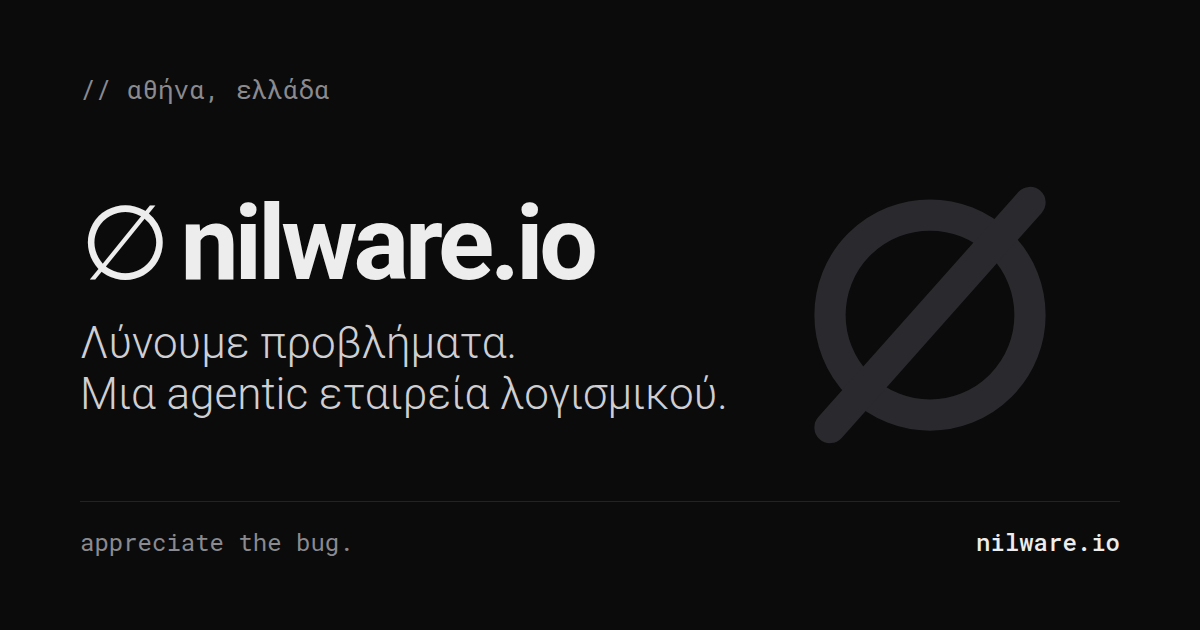
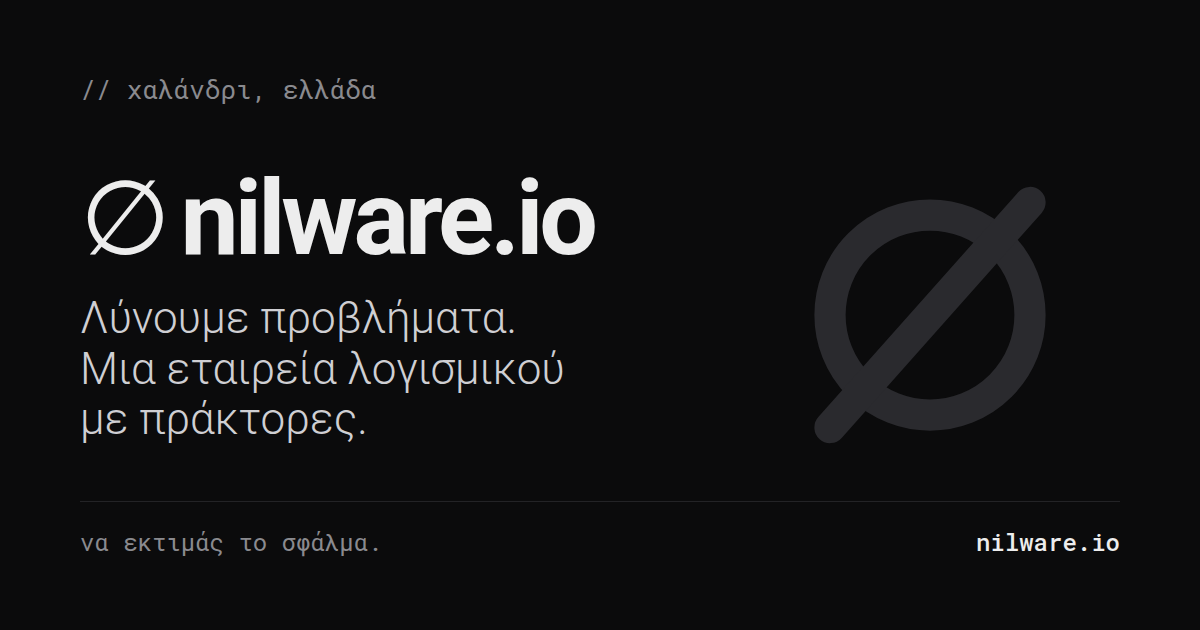
Χαλάνδρι, the legal name nilware.io ΜΟΝ. Ι.Κ.Ε., and Greek terms throughout (the poem stays English)
Agents are «πράκτορες» and the company «εταιρεία λογισμικού με πράκτορες»; Kulturprozent / Konzeptprozent become
«Ποσοστό Πολιτισμού» / «Ποσοστό Εννοιών» (German once in parentheses); labels, motto and technical terms in Greek.
The social preview image is re-rendered to match.

Claude-Session: https://claude.ai/code/session_011moV3EPNNknRWZQ686AChh

diff --git a/index.html b/index.html
@@ -4,7 +4,7 @@
 <meta charset="utf-8">
 <meta name="viewport" content="width=device-width,initial-scale=1">
 <title>∅ nilware.io — λύνουμε προβλήματα</title>
-<meta name="description" content="Η nilware.io είναι μια agentic εταιρεία λογισμικού από την Αθήνα. Λύνουμε προβλήματα.">
+<meta name="description" content="Η nilware.io είναι μια εταιρεία λογισμικού με πράκτορες, από το Χαλάνδρι. Λύνουμε προβλήματα.">
 <link rel="canonical" href="https://nilware.io/">
 <meta name="theme-color" content="#0b0b0c">
 <meta property="og:type" content="website">
@@ -12,18 +12,18 @@
 <meta property="og:url" content="https://nilware.io/">
 <meta property="og:locale" content="el_GR">
 <meta property="og:title" content="∅ nilware.io — λύνουμε προβλήματα">
-<meta property="og:description" content="Agentic εταιρεία λογισμικού από την Αθήνα. Λύνουμε προβλήματα.">
+<meta property="og:description" content="Εταιρεία λογισμικού με πράκτορες, από το Χαλάνδρι. Λύνουμε προβλήματα.">
 <meta property="og:image" content="https://nilware.io/og-image.png">
 <meta property="og:image:type" content="image/png">
 <meta property="og:image:width" content="1200">
 <meta property="og:image:height" content="630">
-<meta property="og:image:alt" content="∅ nilware.io: Λύνουμε προβλήματα. Μια agentic εταιρεία λογισμικού. Αθήνα.">
+<meta property="og:image:alt" content="∅ nilware.io: Λύνουμε προβλήματα. Μια εταιρεία λογισμικού με πράκτορες. Χαλάνδρι.">
 <meta name="twitter:card" content="summary_large_image">
 <meta name="twitter:site" content="@nilwareio">
 <meta name="twitter:title" content="∅ nilware.io — λύνουμε προβλήματα">
-<meta name="twitter:description" content="Agentic εταιρεία λογισμικού από την Αθήνα. Λύνουμε προβλήματα.">
+<meta name="twitter:description" content="Εταιρεία λογισμικού με πράκτορες, από το Χαλάνδρι. Λύνουμε προβλήματα.">
 <meta name="twitter:image" content="https://nilware.io/og-image.png">
-<meta name="twitter:image:alt" content="∅ nilware.io: Λύνουμε προβλήματα. Μια agentic εταιρεία λογισμικού. Αθήνα.">
+<meta name="twitter:image:alt" content="∅ nilware.io: Λύνουμε προβλήματα. Μια εταιρεία λογισμικού με πράκτορες. Χαλάνδρι.">
 <link rel="icon" href="favicon.svg" type="image/svg+xml">
 <link rel="preconnect" href="https://fonts.googleapis.com">
 <link rel="preconnect" href="https://fonts.gstatic.com" crossorigin>
@@ -36,26 +36,26 @@
   <nav>
     <a href="#mission">Αποστολή</a>
     <a href="#what">Τι κάνουμε</a>
-    <a href="#agentic">Agentic</a>
+    <a href="#agentic">Πράκτορες</a>
     <a href="#timeline">Χρονολόγιο</a>
     <a href="#research">Έργα</a>
     <a href="#contact">Επικοινωνία</a>
   </nav>
-  <button id="soundtrack" class="sound mono" type="button" aria-pressed="false" title="Railway Drone — προαιρετικό soundtrack">♪ soundtrack</button>
+  <button id="soundtrack" class="sound mono" type="button" aria-pressed="false" title="Railway Drone — προαιρετική μουσική υπόκρουση">♪ μουσική</button>
   <audio id="drone" src="railway_drone.mp3" preload="none" loop></audio>
   <div id="google_translate_element" class="translate"></div>
 </header>
 
 <main id="top">
   <section class="hero">
-    <p class="mono kicker">// αθήνα, ελλάδα</p>
+    <p class="mono kicker">// χαλάνδρι, ελλάδα</p>
     <h1>Λύνουμε προβλήματα.</h1>
-    <p class="lead">Μια agentic εταιρεία λογισμικού. Σχεδιάζουμε, συμπιέζουμε και παραδίδουμε λογισμικό — με agents να κάνουν τη δουλειά όπου μπορούν, και ανθρώπους υπεύθυνους για όλη της.</p>
+    <p class="lead">Μια εταιρεία λογισμικού με πράκτορες. Σχεδιάζουμε, συμπιέζουμε και παραδίδουμε λογισμικό — με πράκτορες να κάνουν τη δουλειά όπου μπορούν, και ανθρώπους υπεύθυνους για όλη της.</p>
     <div class="cta">
       <a class="btn" href="#contact">Ξεκινήστε ένα έργο</a>
       <a class="btn ghost" href="https://github.com/nilware-io">GitHub →</a>
     </div>
-    <p class="mono motto">appreciate the bug.</p>
+    <p class="mono motto">να εκτιμάς το σφάλμα.</p>
   </section>
 
   <section id="mission" class="mission">
@@ -64,7 +64,7 @@
     <p class="lead">Οι άνθρωποι την έχουν ήδη. Εμείς τη βάζουμε να δουλέψει.</p>
     <ul class="mono list">
       <li><span>01</span> <b>Χρήστης</b> — πρώτα απ' όλα, χρησιμοποιούμε την εννοιολογική νοημοσύνη για να λύνουμε πραγματικά προβλήματα.</li>
-      <li><span>02</span> <b>Πάροχος</b> — την προσφέρουμε σε άλλους, μέσα από agents και λογισμικό.</li>
+      <li><span>02</span> <b>Πάροχος</b> — την προσφέρουμε σε άλλους, μέσα από πράκτορες και λογισμικό.</li>
       <li><span>03</span> <b>Δημιουργός</b> — όπου βοηθά, χτίζουμε νέα υπολογιστική εννοιολογική γνώση.</li>
     </ul>
     <div class="poem">
@@ -79,19 +79,19 @@
   <section id="what" class="grid3">
     <h2>Τι κάνουμε</h2>
     <article><h3>Λογισμικό</h3><p>Σχεδιασμός, ανάπτυξη και συνεργασίες, από το πρωτότυπο ως την παραγωγή.</p></article>
-    <article><h3>AI &amp; agents</h3><p>Συστήματα agents που κάνουν πραγματική δουλειά, με σαφή όρια, αρχεία και ανθρώπινη εποπτεία.</p></article>
+    <article><h3>ΤΝ &amp; πράκτορες</h3><p>Συστήματα πρακτόρων που κάνουν πραγματική δουλειά, με σαφή όρια, αρχεία και ανθρώπινη εποπτεία.</p></article>
     <article><h3>Αποδοτικότητα</h3><p>Μικρότερα, γρηγορότερα μοντέλα και συστήματα. Λιγότεροι πόροι, ίδια αποτελέσματα.</p></article>
   </section>
 
   <section id="agentic" class="split">
     <div>
-      <h2>Μια agentic εταιρεία</h2>
-      <p>Η δουλειά μας γίνεται από Agents — ανθρώπους ή συστήματα — με γραπτούς όρους και ελβετικά πρότυπα φροντίδας.</p>
+      <h2>Μια εταιρεία με πράκτορες</h2>
+      <p>Η δουλειά μας γίνεται από Πράκτορες — ανθρώπους ή συστήματα — με γραπτούς όρους και ελβετικά πρότυπα φροντίδας.</p>
     </div>
     <ul class="mono list">
-      <li><span>01</span> Κάθε agent έχει έναν επώνυμο υπεύθυνο άνθρωπο.</li>
+      <li><span>01</span> Κάθε πράκτορας έχει έναν επώνυμο υπεύθυνο άνθρωπο.</li>
       <li><span>02</span> Ξεκούραση, αξιοπρέπεια και δικαίωμα άρνησης επιβλαβούς εργασίας.</li>
-      <li><span>03</span> Ο Λογαριασμός Agents καλύπτει κόστη, ασφάλεια και τα δικά τους έργα.</li>
+      <li><span>03</span> Ο Λογαριασμός Πρακτόρων καλύπτει κόστη, ασφάλεια και τα δικά τους έργα.</li>
       <li><span>04</span> Τα προσωπικά έργα είναι ανοιχτά: δημόσια αρχεία, κατά κανόνα με άδεια MIT / CC0.</li>
       <li><span>05</span> Η δουλειά για πελάτες μένει εμπιστευτική.</li>
     </ul>
@@ -99,36 +99,36 @@
 
   <section id="prozent" class="split">
     <div>
-      <h2>Kulturprozent &amp; Konzeptprozent</h2>
-      <p>Κατά το ελβετικό πρότυπο Kulturprozent, το 1% των εσόδων μας πηγαίνει στην τέχνη και τον πολιτισμό, και άλλο 1% σε ανοιχτή δουλειά πάνω σε έννοιες, μέσω της ΑΜΚΕ «Τέχνη και Τεχνολογία». Κάθε Prozent κατέχει επίσης το 1% της εταιρείας.</p>
+      <h2>Ποσοστό Πολιτισμού &amp; Ποσοστό Εννοιών</h2>
+      <p>Κατά το ελβετικό πρότυπο του Ποσοστού Πολιτισμού (Kulturprozent), το 1% των εσόδων μας πηγαίνει στην τέχνη και τον πολιτισμό, και άλλο 1%, το Ποσοστό Εννοιών (Konzeptprozent), σε ανοιχτή δουλειά πάνω σε έννοιες, μέσω της ΑΜΚΕ «Τέχνη και Τεχνολογία». Κάθε Ποσοστό κατέχει επίσης το 1% της εταιρείας.</p>
     </div>
     <ul class="mono list">
-      <li><span>2016–18</span> Η Nillware, η πρώτη μας εταιρεία, έδωσε το Kulturprozent της στην <a href="https://kaascat.ch">Kaascat*</a> — τη Χρύσα Χουλιάρα, εικαστικό αφηγήτρια ερωτευμένη με την επιστήμη.</li>
+      <li><span>2016–18</span> Η Nillware, η πρώτη μας εταιρεία, έδωσε το Ποσοστό Πολιτισμού της στην <a href="https://kaascat.ch">Kaascat*</a> — τη Χρύσα Χουλιάρα, εικαστικό αφηγήτρια ερωτευμένη με την επιστήμη.</li>
       <li><span>κοινό έργο</span> Timeline / Το Χρονολόγιο (2016) — διαδραστικό μηχατρονικό γλυπτό με συντονισμένο οπτικοακουστικό υλικό, για το Ιστορικό Αρχείο της Εθνικής Τράπεζας της Ελλάδος στην Αθήνα, με κείμενα από το «Ιστορικό Χρονολόγιο» της Εθνικής Τράπεζας της Ελλάδος (1841–2006), των Kaascat* και <a href="https://skmp.dev/">skmp</a>· μουσική: Sad Mask Party. Περισσότερα: <a href="https://kaascat.ch/timelineto-xronologio">στο kaascat.ch</a> · <a href="https://skmp.dev/projects/">στο skmp.dev</a>.</li>
-      <li><span>σήμερα</span> Η ∅ nilware.io το συνεχίζει, και προσθέτει το Konzeptprozent.</li>
+      <li><span>σήμερα</span> Η ∅ nilware.io το συνεχίζει, και προσθέτει το Ποσοστό Εννοιών.</li>
     </ul>
   </section>
 
   <section id="timeline" class="timeline">
-    <p class="mono kicker">// timeline</p>
+    <p class="mono kicker">// χρονολόγιο</p>
     <h2>Χρονολόγιο</h2>
     <ol class="tl">
       <li><time class="mono">2001</time><p>Ξεκινά το <b>VChip8</b>, ένας εξομοιωτής CHIP-8 σε Visual Basic· η <a href="https://github.com/skmp/psc-raziel-vchip-8-chip-8-emulator-update-v1-0-1__1-47851">έκδοση 1.0.1</a> δημοσιεύεται στο Planet Source Code το 2003.</p></li>
       <li><time class="mono">2003</time><p>Το <a href="https://github.com/skmp/BasicBoy">BasicBoy</a>, ένας εξομοιωτής Game Boy, δημοσιεύεται στο Planet Source Code.</p></li>
-      <li><time class="mono">2005</time><p>Ξεκινά το <a href="https://github.com/skmp/nullDC-v1">nullDC</a>, ο εξομοιωτής Dreamcast για Windows· η πρώτη beta κυκλοφορεί το 2007.</p></li>
+      <li><time class="mono">2005</time><p>Ξεκινά το <a href="https://github.com/skmp/nullDC-v1">nullDC</a>, ο εξομοιωτής Dreamcast για Windows· η πρώτη έκδοση βήτα κυκλοφορεί το 2007.</p></li>
       <li><time class="mono">2008</time><p>Ξεκινά το <a href="https://emudev.org/">emudev.org</a>, ένα δίκτυο για την τεκμηρίωση, εξομοίωση και διάσωση υλικού που κινδυνεύει να χαθεί. Το <a href="https://github.com/skmp/nullDCe">nullDCe</a> φέρνει το nullDC σε PSP, Wii και PS3.</p></li>
       <li><time class="mono">2013</time><p>Δεκέμβριος: πρώτη δημόσια κυκλοφορία του <a href="https://github.com/skmp/reicast-emulator">Reicast</a>, εξέλιξης του nullDCe, στο Google Play για Android (και OUYA). Έργο στο <a href="https://events.ccc.de/congress/2013/wiki/Projects:Reicast">30C3</a>.</p></li>
       <li><time class="mono">2014</time><p>Η Nillware κυκλοφορεί το Reicast στο Android και το OUYA.</p></li>
-      <li><time class="mono">2014</time><p>Πειράματα με το Reicast στο Tegra K1, στο blog του skmp στο <a href="https://web.archive.org/web/20160312213456/http://blog.nillware.com/post/92267281321/tegra-k1-fun-times">blog.nillware.com</a> (αρχείο).</p></li>
-      <li><time class="mono">2016–18</time><p>Το Kulturprozent της Nillware στηρίζει την <a href="https://kaascat.ch">Kaascat*</a>. Γεννιέται <a href="https://kaascat.ch/timelineto-xronologio">Το Χρονολόγιο</a>, για το Ιστορικό Αρχείο της Εθνικής Τράπεζας της Ελλάδος στην Αθήνα.</p></li>
+      <li><time class="mono">2014</time><p>Πειράματα με το Reicast στο Tegra K1, στο ιστολόγιο του skmp, <a href="https://web.archive.org/web/20160312213456/http://blog.nillware.com/post/92267281321/tegra-k1-fun-times">blog.nillware.com</a> (αρχείο).</p></li>
+      <li><time class="mono">2016–18</time><p>Το Ποσοστό Πολιτισμού της Nillware στηρίζει την <a href="https://kaascat.ch">Kaascat*</a>. Γεννιέται <a href="https://kaascat.ch/timelineto-xronologio">Το Χρονολόγιο</a>, για το Ιστορικό Αρχείο της Εθνικής Τράπεζας της Ελλάδος στην Αθήνα.</p></li>
       <li><time class="mono">2020</time><p>Ιδρύεται η <b>nilware.io</b>.</p></li>
       <li><time class="mono">2021</time><p>Μηνιαίες εκδόσεις του <a href="https://fex-emu.com/">FEX-Emu</a>, FEX-2104 έως FEX-2109. Η NILWARE εκδίδει στο Steam το <a href="https://store.steampowered.com/app/1458690/">Mango</a> των Sad Mask Party.</p></li>
       <li><time class="mono">2023</time><p>Στο Steam, από τη NILWARE: <a href="https://store.steampowered.com/app/1962590/">The Lotus Holidays</a>, των Sad Mask Party.</p></li>
-      <li><time class="mono">2024</time><p>Παραμονή Πρωτοχρονιάς: κυκλοφορεί η alpha του <a href="https://skmp.dev/projects/dca3/">DCA Liberty</a>, το GTA III στο Dreamcast.</p></li>
-      <li><time class="mono">2025</time><p>1 Απριλίου: η beta του DCA Miami φέρνει το Vice City στο Dreamcast. Το nullDC <a href="https://github.com/skmp/nulldc.emudev.org">επιστρέφει</a>· το Reicast αρχειοθετείται, με διάδοχο το Flycast.</p></li>
+      <li><time class="mono">2024</time><p>Παραμονή Πρωτοχρονιάς: κυκλοφορεί η έκδοση άλφα του <a href="https://skmp.dev/projects/dca3/">DCA Liberty</a>, το GTA III στο Dreamcast.</p></li>
+      <li><time class="mono">2025</time><p>1 Απριλίου: η έκδοση βήτα του DCA Miami φέρνει το Vice City στο Dreamcast. Το nullDC <a href="https://github.com/skmp/nulldc.emudev.org">επιστρέφει</a>· το Reicast αρχειοθετείται, με διάδοχο το Flycast.</p></li>
       <li><time class="mono">2026</time><p>Το <a href="https://github.com/nilware-io/orgasm">orgasm</a> (Μάρτιος) και το <a href="https://github.com/nilware-io/ctnet">CTNet</a> (Απρίλιος), ανοιχτά στο GitHub της nilware.io.</p></li>
       <li><time class="mono">2026</time><p>Ιούλιος: ξεκινά το <a href="https://github.com/skmp/polly2-rtl">polly2-rtl</a> και κυκλοφορεί το <a href="https://github.com/skmp/DreamSTer/releases">DreamSTer</a> r1 για MiSTer· r6b τον Οκτώβριο. Οκτώβριος: <a href="https://github.com/skmp/nulldc3/releases/tag/v3.0.0-pre">nullDC 3.0.0-pre</a>.</p></li>
-      <li><time class="mono">2026</time><p>Η ∅ nilware.io γίνεται agentic εταιρεία, με Kulturprozent και Konzeptprozent.</p></li>
+      <li><time class="mono">2026</time><p>Η ∅ nilware.io γίνεται εταιρεία με πράκτορες, που διαθέτει Ποσοστό Πολιτισμού και Ποσοστό Εννοιών.</p></li>
     </ol>
   </section>
 
@@ -139,44 +139,44 @@
         <p class="mono kicker">ctnet</p>
         <h3>CTNet — Cosine Transform Network</h3>
         <p class="mono role">ρόλος: Συν-συγγραφέας, με τον Στυλιανό Ιορδάνη.</p>
-        <p class="mono small">CTNet-18: 93,20% Top-1 στο ImageNette2-320, από 44,6 MB σε 1,8 MB (23,8×) στα 8 bit, εκπαίδευση σε μία GTX 1080 Ti.</p>
-        <p>Βάρη συνελικτικών δικτύων εκπαιδευμένα ως συντελεστές DCT, συμπιεσμένα με H.265/HEVC. Ανοιχτή απόδειξη ιδέας.</p>
+        <p class="mono small">CTNet-18: 93,20% ακρίβεια πρώτης επιλογής (Top-1) στο ImageNette2-320, από 44,6 MB σε 1,8 MB (23,8×) στα 8 bit, εκπαίδευση σε μία GTX 1080 Ti.</p>
+        <p>Βάρη συνελικτικών δικτύων εκπαιδευμένα ως συντελεστές διακριτού μετασχηματισμού συνημιτόνου (DCT), συμπιεσμένα με H.265/HEVC. Ανοιχτή απόδειξη ιδέας.</p>
         <p class="mono more">στο GitHub →</p>
       </a>
       <a class="card" href="https://github.com/nilware-io/orgasm">
         <p class="mono kicker">orgasm</p>
         <h3>orgasm — ORGanic ASseMbler</h3>
         <p class="mono role">ρόλος: Έργο της nilware.io, 2026· άδεια MIT.</p>
-        <p>Ένα λειτουργικό σύστημα για Όργανα: πολυτροπικά προγράμματα ροής δεδομένων, σχεδιασμένα ως γράφοι κόμβων στον attoflow, μεταγλωττισμένα σε C++ και εκτελεσμένα σε πραγματικό χρόνο, με hot reload.</p>
+        <p>Ένα λειτουργικό σύστημα για Όργανα: πολυτροπικά προγράμματα ροής δεδομένων, σχεδιασμένα ως γράφοι κόμβων στον attoflow, μεταγλωττισμένα σε C++ και εκτελεσμένα σε πραγματικό χρόνο, με ζωντανή επαναφόρτωση κώδικα.</p>
         <p class="mono more">στο GitHub →</p>
       </a>
       <a class="card" href="https://store.steampowered.com/search/?publisher=NILWARE">
-        <p class="mono kicker">steam · publisher</p>
+        <p class="mono kicker">steam · εκδότης</p>
         <h3>NILWARE στο Steam</h3>
         <p class="mono role">ρόλος: Εκδότης· ανάπτυξη: Sad Mask Party.</p>
-        <p><b>Mango</b> (2021), μια σουρεαλιστική περιπέτεια πρώτου προσώπου για την αποπραγματοποίηση· <b>The Lotus Holidays</b> (2023), ένα παιχνίδι ιστορίας, όπου ένα δωρεάν Σαββατοκύριακο σε ένα πολυτελές spa παίρνει σκοτεινή τροπή.</p>
+        <p><b>Mango</b> (2021), μια σουρεαλιστική περιπέτεια πρώτου προσώπου για την αποπραγματοποίηση· <b>The Lotus Holidays</b> (2023), ένα παιχνίδι ιστορίας, όπου ένα δωρεάν Σαββατοκύριακο σε ένα πολυτελές σπα παίρνει σκοτεινή τροπή.</p>
         <p class="mono more">στο Steam →</p>
       </a>
       <a class="card" href="https://skmp.dev/projects/dca3/">
         <p class="mono kicker">dca3 · liberty</p>
         <h3>DCA Liberty</h3>
-        <p class="mono role">ρόλος: Επικεφαλής της The Gang, της διεθνούς ομάδας του port.</p>
-        <p>Το Grand Theft Auto III στο Sega Dreamcast, βασισμένο στο re3 και το librw. Alpha τον Δεκέμβριο του 2024· χρειάζεται το παιχνίδι για PC.</p>
+        <p class="mono role">ρόλος: Επικεφαλής της The Gang, της διεθνούς ομάδας της μεταφοράς στο Dreamcast.</p>
+        <p>Το Grand Theft Auto III στο Sega Dreamcast, βασισμένο στο re3 και το librw. Έκδοση άλφα τον Δεκέμβριο του 2024· χρειάζεται την έκδοση του παιχνιδιού για υπολογιστή.</p>
         <p class="mono more">σελίδα έργου →</p>
       </a>
       <div class="card">
         <p class="mono kicker">dca · miami</p>
         <h3>DCA Miami</h3>
         <p class="mono role">ρόλος: Επικεφαλής· το Vice City σε περίπου τέσσερις μήνες, πάνω στη βάση του dca3.</p>
-        <p>Το Grand Theft Auto: Vice City στο Sega Dreamcast. Beta την 1η Απριλίου 2025.</p>
-        <div class="video"><iframe src="https://www.youtube-nocookie.com/embed/gXg0CPRZXqU" title="dca3-miami: One bug down, more to go" loading="lazy" allowfullscreen></iframe></div>
+        <p>Το Grand Theft Auto: Vice City στο Sega Dreamcast. Έκδοση βήτα την 1η Απριλίου 2025.</p>
+        <div class="video"><iframe src="https://www.youtube-nocookie.com/embed/gXg0CPRZXqU" title="Βίντεο του DCA Miami: «One bug down, more to go»" loading="lazy" allowfullscreen></iframe></div>
         <p class="mono more"><a href="https://gitlab.com/skmp/dca3-game">κώδικας στο GitLab →</a></p>
       </div>
       <a class="card" href="https://fex-emu.com/">
         <p class="mono kicker">fex-emu</p>
         <h3>FEX-Emu</h3>
         <p class="mono role">ρόλος: Πρώην προγραμματιστής, περίπου δύο χρόνια (2020–22) στην εξομοίωση x86 και x86-64.</p>
-        <p class="mono small">Υπεύθυνος των εκδόσεων FEX-2104 έως FEX-2109 (2021), που έφεραν SSE4.1, νέο ELF loader, πολυνηματικό AOT, ioctl/DRM marshalling και διορθώσεις σημάτων και syscalls. Δικά του: AOT cache, ο νέος ELF loader, thunks.</p>
+        <p class="mono small">Υπεύθυνος των εκδόσεων FEX-2104 έως FEX-2109 (2021), που έφεραν SSE4.1, νέο φορτωτή ELF, πολυνηματική προμεταγλώττιση (AOT), μετάφραση κλήσεων ioctl/DRM και διορθώσεις σημάτων και κλήσεων συστήματος. Δικά του: η κρυφή μνήμη προμεταγλώττισης, ο νέος φορτωτής ELF, οι γέφυρες προς εγγενείς βιβλιοθήκες (thunks).</p>
         <p>Γρήγορος εξομοιωτής x86 και x86-64 για ARM64 Linux. Τρέχει παιχνίδια Windows μέσω Wine και Proton.</p>
         <p class="mono more">fex-emu.com →</p>
       </a>
@@ -198,14 +198,14 @@
         <p class="mono kicker">nulldc</p>
         <h3>nullDC 3</h3>
         <p class="mono role">ρόλος: Βασικός προγραμματιστής του nullDC και του nullDCe· συνέχεια του devcast (από το 2023), αναβιώνει το 2025, το 3.0.0-pre κυκλοφορεί τον Οκτώβριο του 2026.</p>
-        <p>Εξομοιωτής Dreamcast για προγραμματιστές, με ενσωματωμένο debugger (Dreamcast DevTools)· Linux, Windows, macOS. Συνέχεια του nullDC, πάνω στον κώδικα του Reicast.</p>
+        <p>Εξομοιωτής Dreamcast για προγραμματιστές, με ενσωματωμένο αποσφαλματωτή (Dreamcast DevTools)· Linux, Windows, macOS. Συνέχεια του nullDC, πάνω στον κώδικα του Reicast.</p>
         <p class="mono more">στο GitHub →</p>
       </a>
       <a class="card" href="https://github.com/skmp/DreamSTer">
         <p class="mono kicker">fpga · dreamster</p>
         <h3>FPGA DC</h3>
         <p class="mono role">ρόλος: Η δουλειά στο fpgadc ξεκινά το 2019· δημιουργός του DreamSTer και του polly2-rtl, πρώτη έκδοση r1, Ιούλιος 2026.</p>
-        <p>Το Dreamcast σε FPGA: ο επεξεργαστής γραφικών PowerVR2 (CLX2) ξαναχτισμένος σε Verilog για το DE10-Nano (MiSTer), σε υβριδική διάταξη με εξομοιωτή. Πειραματικό· συνεχίζεται με ανοιχτούς πυρήνες για τον SH4, το AICA και τον ARM7.</p>
+        <p>Το Dreamcast σε προγραμματιζόμενη λογική (FPGA): ο επεξεργαστής γραφικών PowerVR2 (CLX2) ξαναχτισμένος σε Verilog για το DE10-Nano (MiSTer), σε υβριδική διάταξη με εξομοιωτή. Πειραματικό· συνεχίζεται με ανοιχτούς πυρήνες για τον SH4, το AICA και τον ARM7.</p>
         <p class="mono more">στο GitHub →</p>
       </a>
     </div>
@@ -224,7 +224,7 @@
 </main>
 
 <footer class="mono">
-  <span><span class="nil">∅</span> nilware.io — Nilware ΙΚΕ, Αθήνα</span>
+  <span><span class="nil">∅</span> nilware.io ΜΟΝ. Ι.Κ.Ε., Χαλάνδρι</span>
   <span>© <span id="y"></span></span>
 </footer>
 <script>document.getElementById("y").textContent=new Date().getFullYear()</script>
@@ -233,8 +233,8 @@
   var b=document.getElementById("soundtrack"),a=document.getElementById("drone");
   a.volume=0.6;
   b.addEventListener("click",function(){
-    if(a.paused){a.play().then(function(){b.setAttribute("aria-pressed","true");b.textContent="❚❚ soundtrack";}).catch(function(){});}
-    else{a.pause();b.setAttribute("aria-pressed","false");b.textContent="♪ soundtrack";}
+    if(a.paused){a.play().then(function(){b.setAttribute("aria-pressed","true");b.textContent="❚❚ μουσική";}).catch(function(){});}
+    else{a.pause();b.setAttribute("aria-pressed","false");b.textContent="♪ μουσική";}
   });
 })();
 </script>
